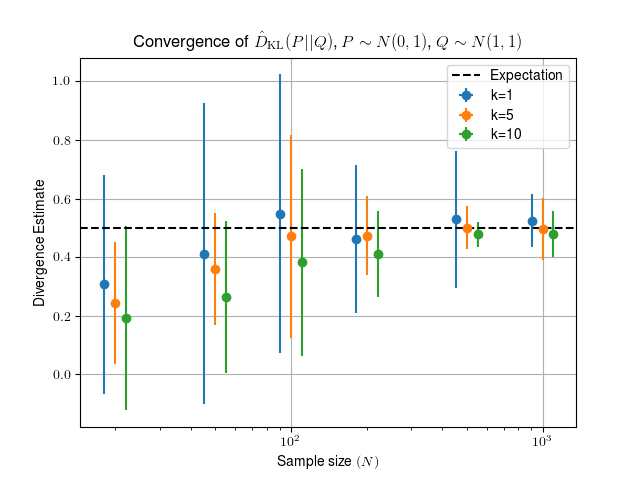
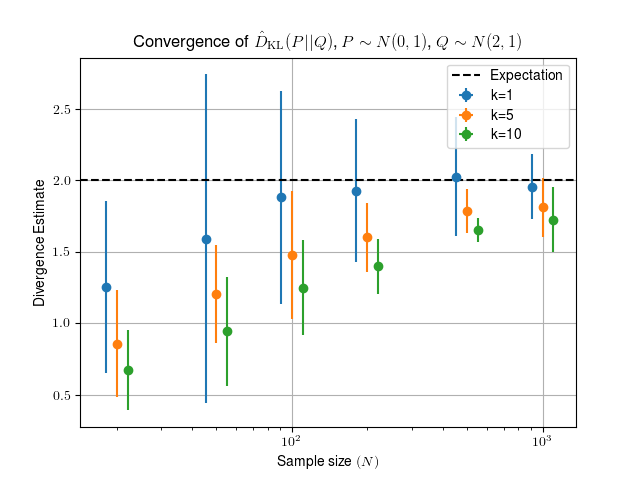
References in README, adjusted Gaussian test

diff --git a/src/tests.py b/src/tests.py
@@ -69,15 +69,15 @@ class self_divergence_estimate_2d:
 
 class gaussian_divergence_estimate_1d:
     """ Estimate the divergence between two samples of size `N` and dimension
-    1, the first drawn from N(0,1), the second from N(1,1)."""
+    1, the first drawn from N(0,1), the second from N(2,1)."""
     name  = "1-D divergence of Gaussians"
     filename = "gaussian_divergence_1d"
-    title = "$\hat{D}_{\\mathrm{KL}}(P||Q)$, $P \sim N(0,1)$, $Q \sim N(1,1)$"
-    expectation = gaussian_divergence(0, 1, 1, 1)
+    title = "$\hat{D}_{\\mathrm{KL}}(P||Q)$, $P \sim N(0,1)$, $Q \sim N(2,1)$"
+    expectation = gaussian_divergence(0, 2, 1, 1)
     def P(self, N):
         return np.random.multivariate_normal([0], [[1]], N)
     def Q(self, N):
-        return np.random.multivariate_normal([1], [[1]], N)
+        return np.random.multivariate_normal([2], [[1]], N)
     def compute(self, estimator, N, k):
         return divergence_estimate_analysis(estimator, self.P, self.Q, N, k, self.expectation)
 

diff --git a/README.md b/README.md
@@ -1,19 +1,26 @@
 # KL divergence estimators
 
-Here I test a few implementations of a KL-divergence estimator
-based on k-Nearest-Neighbours probability density estimation.
+The [KL-divergence](https://en.wikipedia.org/wiki/Kullback%E2%80%93Leibler_divergence)
+is normally defined between two probability distributions. In the case where
+only samples of the probability distribution are available, the KL-divergence can
+be estimated in a number of ways.
+
+Here I test a few implementations of a KL-divergence estimator based on
+k-Nearest-Neighbours probability density estimation.
 
 The estimator is that of 
 
-> Qing Wang, Sanjeev R. Kulkarni, and Sergio Verdú. "Divergence estimation for multidimensional densities via k-nearest-neighbor distances." Information Theory, IEEE Transactions on 55.5 (2009): 2392-2405.
+> Qing Wang, Sanjeev R. Kulkarni, and Sergio Verdú. 
+> "Divergence estimation for multidimensional densities via k-nearest-neighbor distances." 
+> Information Theory, IEEE Transactions on 55.5 (2009): 2392-2405.
 
 Samples are drawn from various test distributions, and the estimated
-KL-divergence between them is computed. Where given, uncertainties are
-assessed by re-sampling the distributions and re-computing divergence estimates
-100 times. Uncertainty bands are then given as the interval
-containing 68% of the re-sampled estimates closest to the median. Timings
-where provided are the time taken for the computation of all 100 re-samples
-on a sample size of `N=1000` with `k=5`.
+KL-divergence between them is computed. Uncertainties are assessed by
+re-sampling the distributions and re-computing divergence estimates 100 times.
+Uncertainty bands are then given as the interval containing 68% of the
+re-sampled estimates closest to the median. Timings where provided are the time
+taken for the computation of all 100 re-samples on a sample size of **N**=1000
+with **k**=5.
 
 This study is far from exhaustive, and timings are sensitive to implementation
 details. Please take with a pinch of salt.
@@ -46,13 +53,15 @@ These estimators have been benchmarked against [slaypni/universal-divergence](ht
 
 ***Expectation: 0***
 
+#### Comparison of estimator implementations 
+
 |    Estimator    |  D(P\|Q) | Time (s)|
 |-----------------|----------|---------|
-|naive_estimator  | 2.032e-02|1.26616|
-|scipy_estimator  | 2.032e-02|2.39158|
-|skl_estimator    | 2.032e-02|3.56940|
+|naive_estimator  | 2.032e-02|1.31433|
+|scipy_estimator  | 2.032e-02|2.62308|
+|skl_estimator    | 2.032e-02|3.69682|
 
-### Convergence of estimator with *N*
+#### Convergence of estimator with *N*
 ![Convergence Plot](figures/self_divergence_1d_convergence.png)
 
 
@@ -64,30 +73,34 @@ These estimators have been benchmarked against [slaypni/universal-divergence](ht
 
 ***Expectation: 0***
 
+#### Comparison of estimator implementations 
+
 |    Estimator    |  D(P\|Q) | Time (s)|
 |-----------------|----------|---------|
-|naive_estimator  |-1.156e-04|1.71644|
-|scipy_estimator  |-1.156e-04|3.81967|
-|skl_estimator    |-1.156e-04|3.62845|
+|naive_estimator  |-1.156e-04|1.76665|
+|scipy_estimator  |-1.156e-04|3.96410|
+|skl_estimator    |-1.156e-04|3.99259|
 
-### Convergence of estimator with *N*
+#### Convergence of estimator with *N*
 ![Convergence Plot](figures/self_divergence_2d_convergence.png)
 
 
 
 ## 1-D divergence of Gaussians
  Estimate the divergence between two samples of size `N` and dimension
-    1, the first drawn from N(0,1), the second from N(1,1).
+    1, the first drawn from N(0,1), the second from N(2,1).
 
-***Expectation: 0.5***
+***Expectation: 2.0***
+
+#### Comparison of estimator implementations 
 
 |    Estimator    |  D(P\|Q) | Time (s)|
 |-----------------|----------|---------|
-|naive_estimator  | 4.963e-01|1.25712|
-|scipy_estimator  | 4.963e-01|2.43408|
-|skl_estimator    | 4.963e-01|3.73556|
+|naive_estimator  | 1.811e+00|1.31149|
+|scipy_estimator  | 1.811e+00|2.43307|
+|skl_estimator    | 1.811e+00|3.69075|
 
-### Convergence of estimator with *N*
+#### Convergence of estimator with *N*
 ![Convergence Plot](figures/gaussian_divergence_1d_convergence.png)
 
 # Generating this document
